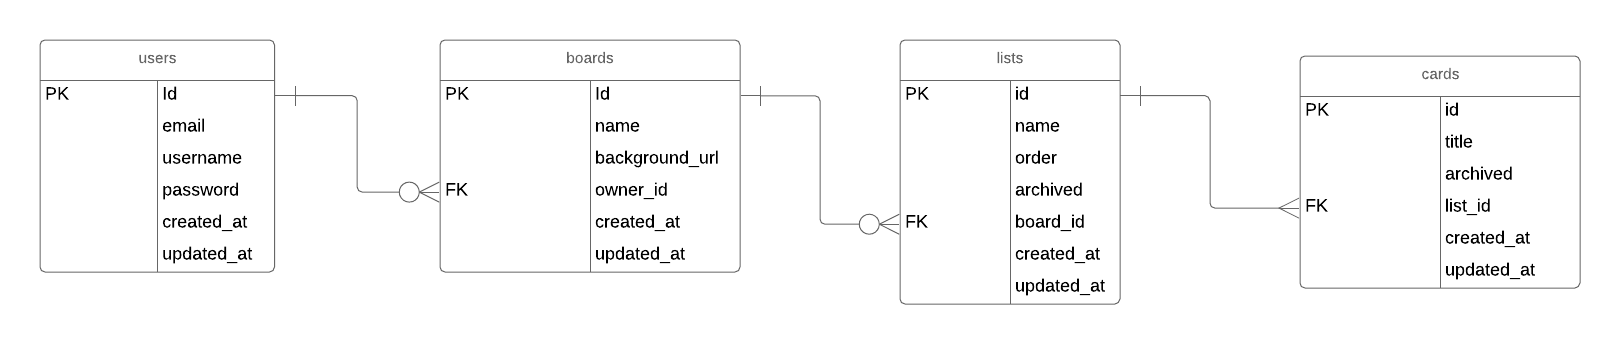
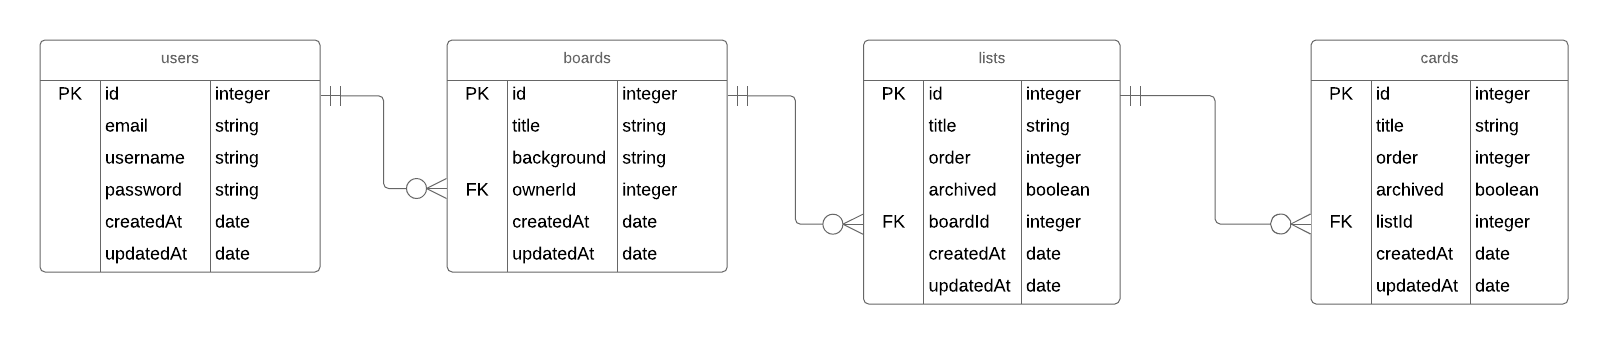
updated README

diff --git a/server/db/models/card.js b/server/db/models/card.js
@@ -11,10 +11,6 @@ module.exports = (sequelize, DataTypes) => {
       },
       order: {
         allowNull: false,
-<<<<<<< HEAD
-        unique: true,
-=======
->>>>>>> models
         type: DataTypes.INTEGER,
         validates: {
           notEmpty: true,

diff --git a/server/db/migrations/20190409142818-create-card.js b/server/db/migrations/20190409142818-create-card.js
@@ -16,10 +16,6 @@ module.exports = {
       },
       order: {
         allowNull: false,
-<<<<<<< HEAD
-        unique: true,
-=======
->>>>>>> models
         type: Sequelize.INTEGER,
         validates: {
           notEmpty: true,

diff --git a/server/db/migrations/20190409140423-create-board.js b/server/db/migrations/20190409140423-create-board.js
@@ -16,10 +16,7 @@ module.exports = {
       },
       background: {
         allowNull: false,
-<<<<<<< HEAD
-=======
         defaultValue: '#ffffff',
->>>>>>> models
         type: Sequelize.STRING,
       },
       ownerId: {

diff --git a/server/routes/boards.js b/server/routes/boards.js
@@ -29,11 +29,7 @@ router.get('/', (req, res, next) => {
       },
       {
         model: List,
-<<<<<<< HEAD
-        as: 'lists', // board.lists
-=======
         as: 'lists',
->>>>>>> models
       },
     ],
   })

diff --git a/README.md b/README.md
@@ -60,37 +60,89 @@ _will most likely change as I work_
 
   - **Models**
 
-    - sequelize adds id(primary key), createdAt, and updatedAt fields
+    > sequelize adds id(primary key), createdAt, and updatedAt fields
 
-    - _users_
+    - ~~_users_~~
 
-      - attributes: id, username, email, password
-      - has many boards
+      - ~~attributes: email(string), username(string), password(string)~~
+        - ~~unique contraints on email and username~~
+        - ~~all are required~~
+      - ~~hasMany boards~~
 
-    - _boards_
+    - ~~_boards_~~
 
-      - attriutes: name, background_url, owner_id
-      - has many lists
+      - ~~attributes: title(string), background(string), ownerId(integer)~~
+        - ~~title and ownerId are required~~
+        - ~~background default value is '#ffffff'~~
+      - ~~hasMany lists~~
+      - ~~belongsTo user~~
 
-    - _lists_
+    - ~~_lists_~~
 
-      - attributes: name, order, archived, boardId
-      - has many cards
-      - belongs to board
+      - ~~attributes: title(string), order(integer), archived(boolean), boardId(integer)~~
+        - ~~title, order and boardId are required~~
+        - ~~archived default value is 'false'~~
+      - ~~hasMany cards~~
+      - ~~belongsTo board~~
 
-    - _cards_
-      - attributes: title, archived, list_id
-      - belongs to list
+    - ~~_cards_~~
+      - ~~attributes: title, order, archived, listId~~
+        - ~~title, order, listId are required~~
+        - ~~archived default value is 'false'~~
+      - ~~belongsTo list~~
 
   - **Routers**
 
-    - /users
+    - _/users_
+
+      - GET
+
+        - /:id
+          - get a single user
+          - protected route. user needs authorization
+
+      - ~~POST~~
+
+        - ~~create a user and add it to the db~~
+        - ~~hash password before storing in db~~
+
+      - DELETE
+        - /:id
+          - remove the user with the id from the db
+
+    - _/boards_
+
 
       - POST
-        - create a user and add it to the db.
-      - GET
-        - /users/:id - get a single user.
-        - protected route. user needs authorization
+
+        - create a board associated with a user
+
+      - PUT
+        - /:id
+          - modify the board
+
+    - _/lists_
+
+      - ~~POST~~
+        - ~~create a list associated with a board~~
+      - PUT
+        - /:id
+          - modify a board with :id in the db
+      - DELETE
+
+        - /:id
+          - archive to list with the :id
+
+    - _/cards_
+
+      - ~~POST~~
+        - ~~create a card associatad with a list~~
+      - PUT
+        - /:id
+          - modify the list with :id
+      - DELETE
+        - /:id
+          - archive the card with :id
 
 ## Entity-Relationship Diagram
 
